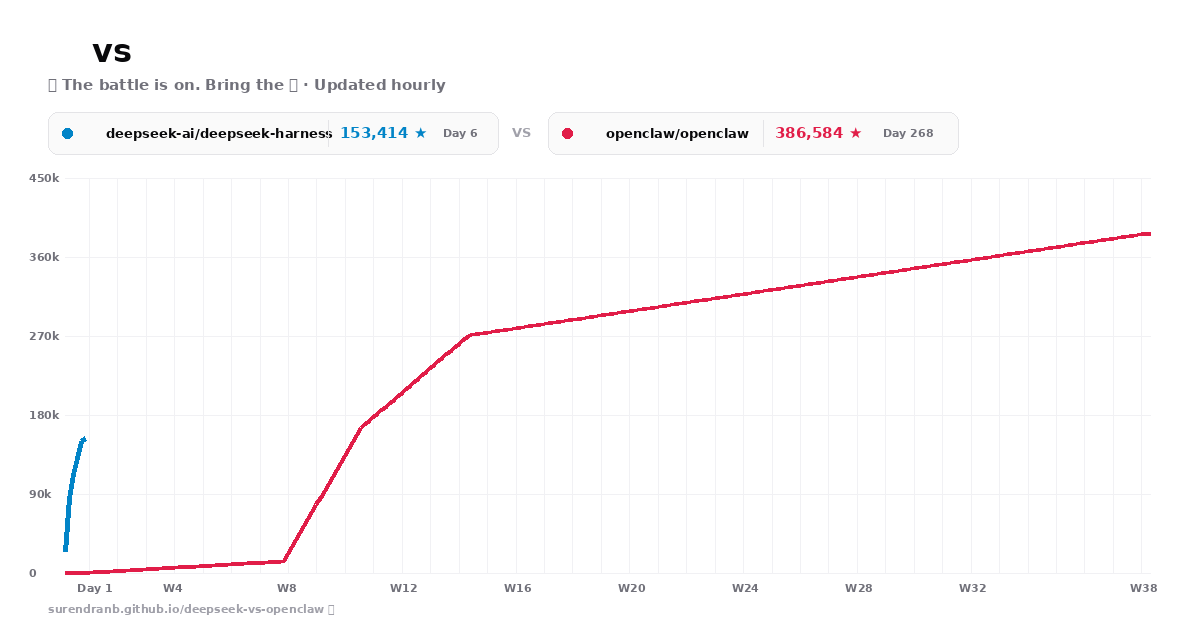
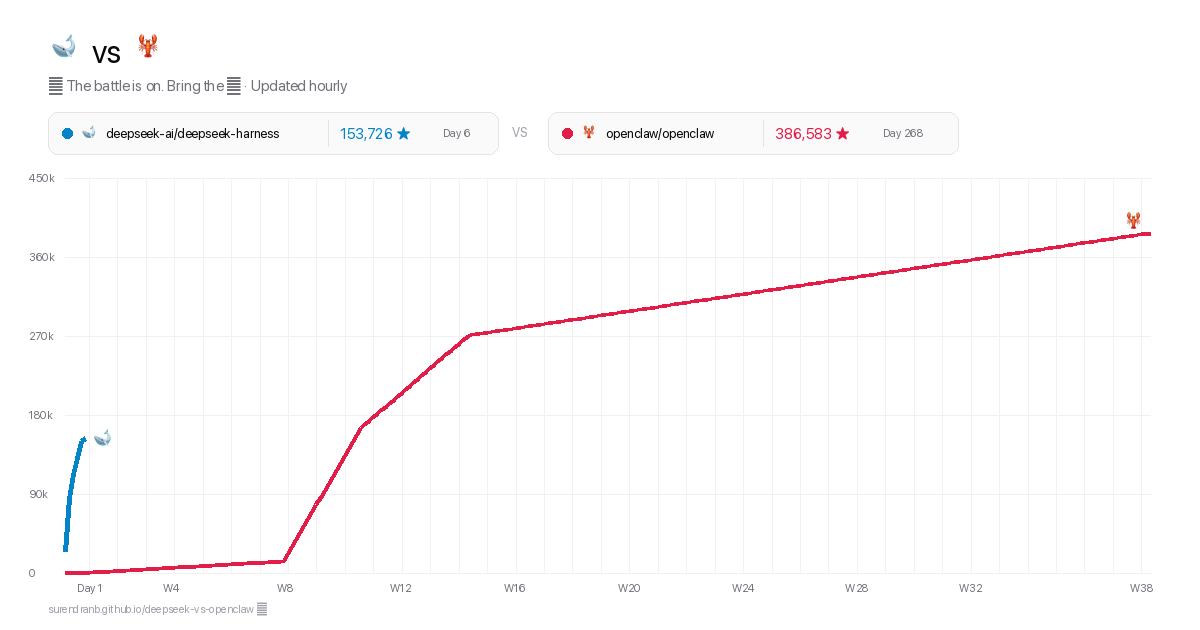
chore: regenerate artifacts with latest data

diff --git a/index.html b/index.html
@@ -10,7 +10,7 @@
   <meta property="og:type" content="website">
   <meta property="og:url" content="https://surendranb.github.io/deepseek-vs-openclaw/">
   <meta property="og:title" content="🐋 vs 🦞 · The Battle for GitHub's Fastest-Growing Repo">
-  <meta property="og:description" content="OpenClaw took 9 months to hit 386,580 stars. DeepSeek Harness crossed 153,187 ★ in just 6 days. Watch the race live 🍿">
+  <meta property="og:description" content="OpenClaw took 9 months to hit 386,583 stars. DeepSeek Harness crossed 153,726 ★ in just 6 days. Watch the race live 🍿">
   <meta property="og:image" content="https://surendranb.github.io/deepseek-vs-openclaw/og-image.png">
   <meta property="og:image:secure_url" content="https://surendranb.github.io/deepseek-vs-openclaw/og-image.png">
   <meta property="og:image:type" content="image/png">
@@ -21,7 +21,7 @@
   <!-- Twitter / X Metadata -->
   <meta name="twitter:card" content="summary_large_image">
   <meta name="twitter:title" content="🐋 vs 🦞 · The Battle for GitHub's Fastest-Growing Repo">
-  <meta name="twitter:description" content="OpenClaw took 9 months to hit 386,580 stars. DeepSeek Harness crossed 153,187 ★ in just 6 days. Watch the race live 🍿">
+  <meta name="twitter:description" content="OpenClaw took 9 months to hit 386,583 stars. DeepSeek Harness crossed 153,726 ★ in just 6 days. Watch the race live 🍿">
   <meta name="twitter:image" content="https://surendranb.github.io/deepseek-vs-openclaw/og-image.png">
 
   <link rel="preconnect" href="https://fonts.googleapis.com">

diff --git a/generate_chart.py b/generate_chart.py
@@ -14,7 +14,7 @@ import math
 import os
 import re
 import urllib.request
-from datetime import datetime, timezone, date
+from datetime import datetime, timezone, date, timedelta
 from PIL import Image, ImageDraw, ImageFont
 
 REPOS = {
@@ -273,6 +273,10 @@ def build_svg(data: dict) -> None:
     """Generate high-contrast SVG chart with weekly vertical grid lines."""
     dsh = data["repositories"]["deepseek_harness"]["daily_stars"]
     claw = data["repositories"]["openclaw"]["daily_stars"]
+    created = data["repositories"]["deepseek_harness"]["created_at"]
+
+    def cross_date(cross: float) -> str:
+        return (date.fromisoformat(created) + timedelta(days=round(cross))).strftime("%b %-d, %Y")
 
     max_days = max(len(dsh), len(claw))
     max_stars = 450000
@@ -387,17 +391,17 @@ def build_svg(data: dict) -> None:
   <line x1="{pad_left}" y1="{dsh_tip_y:.1f}" x2="{width - pad_right}" y2="{dsh_tip_y:.1f}" stroke="#a1a1aa" stroke-width="1.5" stroke-dasharray="4 4"/>
   <text x="{width - pad_right}" y="{dsh_tip_y - 6:.1f}" font-size="11" fill="#71717a" text-anchor="end" font-family="-apple-system, BlinkMacSystemFont, sans-serif">🐋 today · {dsh[-1]:,}★</text>
 
-  <!-- Projection fan: best / expected / worst -->
+  <!-- Projection fan: current / average / slowing pace -->
   <path d="{day_path(lambda d: dsh[-1] + best_slope * (d - days), days, int(math.ceil(best_cross)))}" fill="none" stroke="#0ea5e9" stroke-width="2" stroke-dasharray="2 3" stroke-linecap="round"/>
   <circle cx="{x_coord(int(math.ceil(best_cross)) - 1):.1f}" cy="{y_coord(red_target):.1f}" r="4" fill="#0ea5e9"/>
-  <text x="{x_coord(int(math.ceil(best_cross)) - 1):.1f}" y="{y_coord(red_target) - 8:.1f}" font-size="11" font-weight="700" fill="#0ea5e9" text-anchor="middle" paint-order="stroke" stroke="#ffffff" stroke-width="3" font-family="-apple-system, BlinkMacSystemFont, sans-serif">best · recent velocity ≈ Day {best_cross:.0f}</text>
+  <text x="{x_coord(int(math.ceil(best_cross)) - 1):.1f}" y="{y_coord(red_target) - 8:.1f}" font-size="11" font-weight="700" fill="#0ea5e9" text-anchor="middle" paint-order="stroke" stroke="#ffffff" stroke-width="3" font-family="-apple-system, BlinkMacSystemFont, sans-serif">current pace ≈ {cross_date(best_cross)}</text>
 
   <path d="{day_path(lambda d: log_a + log_b * math.log(d), days, int(math.ceil(exp_cross)))}" fill="none" stroke="#0284c7" stroke-width="2" stroke-dasharray="7 5" stroke-linecap="round"/>
   <circle cx="{x_coord(int(math.ceil(exp_cross)) - 1):.1f}" cy="{y_coord(red_target):.1f}" r="4" fill="#0284c7"/>
-  <text x="{x_coord(int(math.ceil(exp_cross)) - 1):.1f}" y="{y_coord(red_target) - 8:.1f}" font-size="11" font-weight="700" fill="#0284c7" text-anchor="middle" paint-order="stroke" stroke="#ffffff" stroke-width="3" font-family="-apple-system, BlinkMacSystemFont, sans-serif">expected · log fit ≈ Day {exp_cross:.0f}</text>
+  <text x="{x_coord(int(math.ceil(exp_cross)) - 1):.1f}" y="{y_coord(red_target) - 8:.1f}" font-size="11" font-weight="700" fill="#0284c7" text-anchor="middle" paint-order="stroke" stroke="#ffffff" stroke-width="3" font-family="-apple-system, BlinkMacSystemFont, sans-serif">average pace ≈ {cross_date(exp_cross)}</text>
 
   <path d="{day_path(lambda d: sat_cap * (1 - math.exp(-sat_k * d)), days, max_days)}" fill="none" stroke="#a1a1aa" stroke-width="2" stroke-dasharray="4 4" stroke-linecap="round"/>
-  <text x="{width - pad_right}" y="{y_coord(sat_cap) - 6:.1f}" font-size="11" font-weight="700" fill="#a1a1aa" text-anchor="end" paint-order="stroke" stroke="#ffffff" stroke-width="3" font-family="-apple-system, BlinkMacSystemFont, sans-serif">{'worst · saturation ≈ Day %.0f' % sat_cross if sat_cross else 'worst · saturation: plateaus ~%dk★ — no catch-up' % (sat_cap // 1000)}</text>
+  <text x="{width - pad_right}" y="{y_coord(sat_cap) - 6:.1f}" font-size="11" font-weight="700" fill="#a1a1aa" text-anchor="end" paint-order="stroke" stroke="#ffffff" stroke-width="3" font-family="-apple-system, BlinkMacSystemFont, sans-serif">{'slowing pace ≈ %s' % cross_date(sat_cross) if sat_cross else 'slowing pace: plateaus ~%dk★ — no catch-up' % (sat_cap // 1000)}</text>
 
   <!-- X-Axis Label -->
   <text x="{width / 2}" y="{height - 8}" font-size="11.5" font-weight="700" fill="#71717a" text-anchor="middle" font-family="-apple-system, BlinkMacSystemFont, sans-serif">Weeks since Day 1 inception (each vertical line = 1 week)</text>
